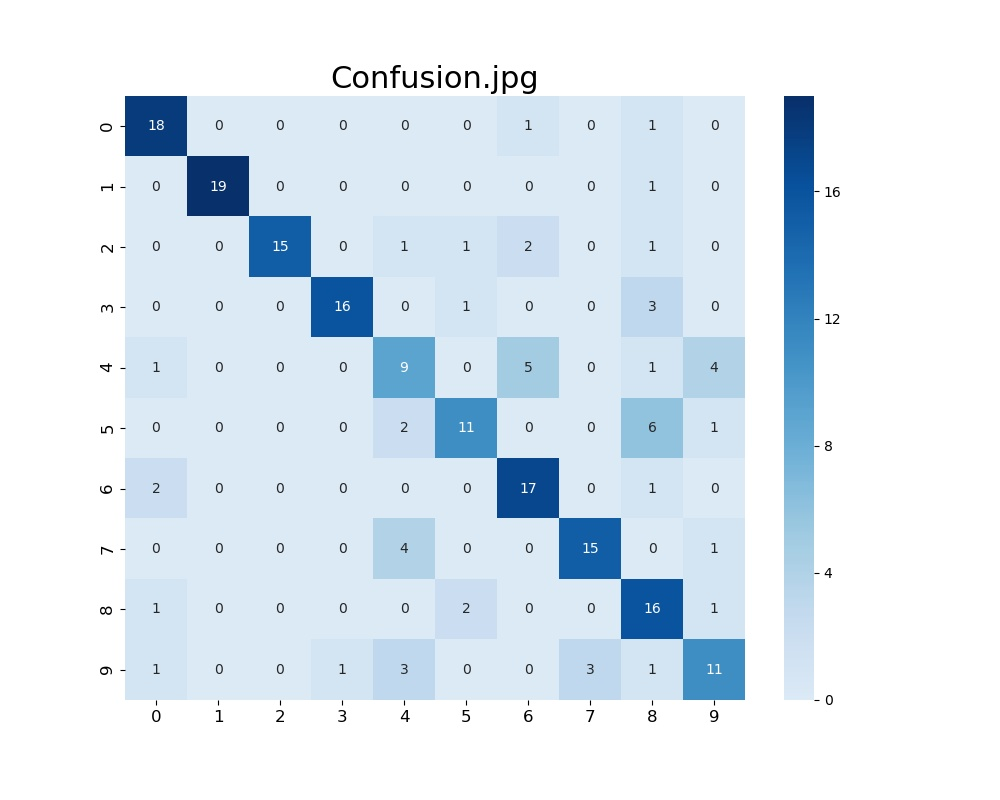
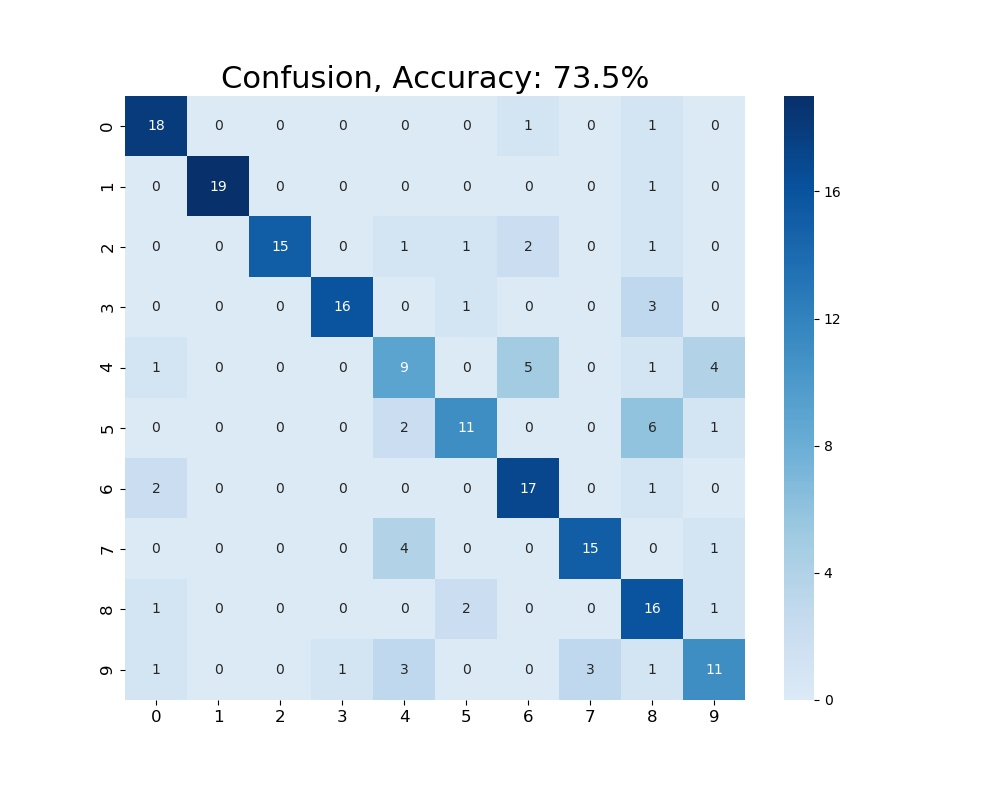
1- Updated Confusion Plotting and Added Accuracy

Changed region(s): [[0.217, 0.0625, 0.651, 0.125]]

diff --git a/utils.py b/utils.py
@@ -43,9 +43,15 @@ def create_confusion_matrix(all_test, T_labels):
 def save_confusion_matrix_plot(confusion_matrix, plot_tile, img_filepath="confusion.png"):
     fig = plt.figure(figsize=(10,8), dpi= 100)
     sns.heatmap(confusion_matrix,cmap='Blues', center=8, annot=True)
-    
+
+    # Calculation the accuracy
+    acc = 0;
+    for i in range(0,10):
+      acc += confusion_matrix[i,i]
+    acc /= 2
+
     # Decorations
-    plt.title(plot_tile, fontsize=22)
+    plt.title(plot_tile+", Accuracy: "+str(round(acc,2))+"%", fontsize=22)
     plt.xticks(fontsize=12)
     plt.yticks(fontsize=12)
     plt.xlim((0,10))

diff --git a/naive_bayes_classifier.py b/naive_bayes_classifier.py
@@ -122,7 +122,7 @@ all_predictions_for_confusion = all_predictions.reshape(all_predictions.shape[:-
 confusion_matrix = create_confusion_matrix(all_predictions_for_confusion, T_test_labels)
 img_filepath = os.path.join(confusion_dir_path,
                                     "Confusion.jpg")
-save_confusion_matrix_plot(confusion_matrix,"Confusion.jpg" ,  img_filepath)
+save_confusion_matrix_plot(confusion_matrix,"Confusion" ,  img_filepath)
 
 
 
